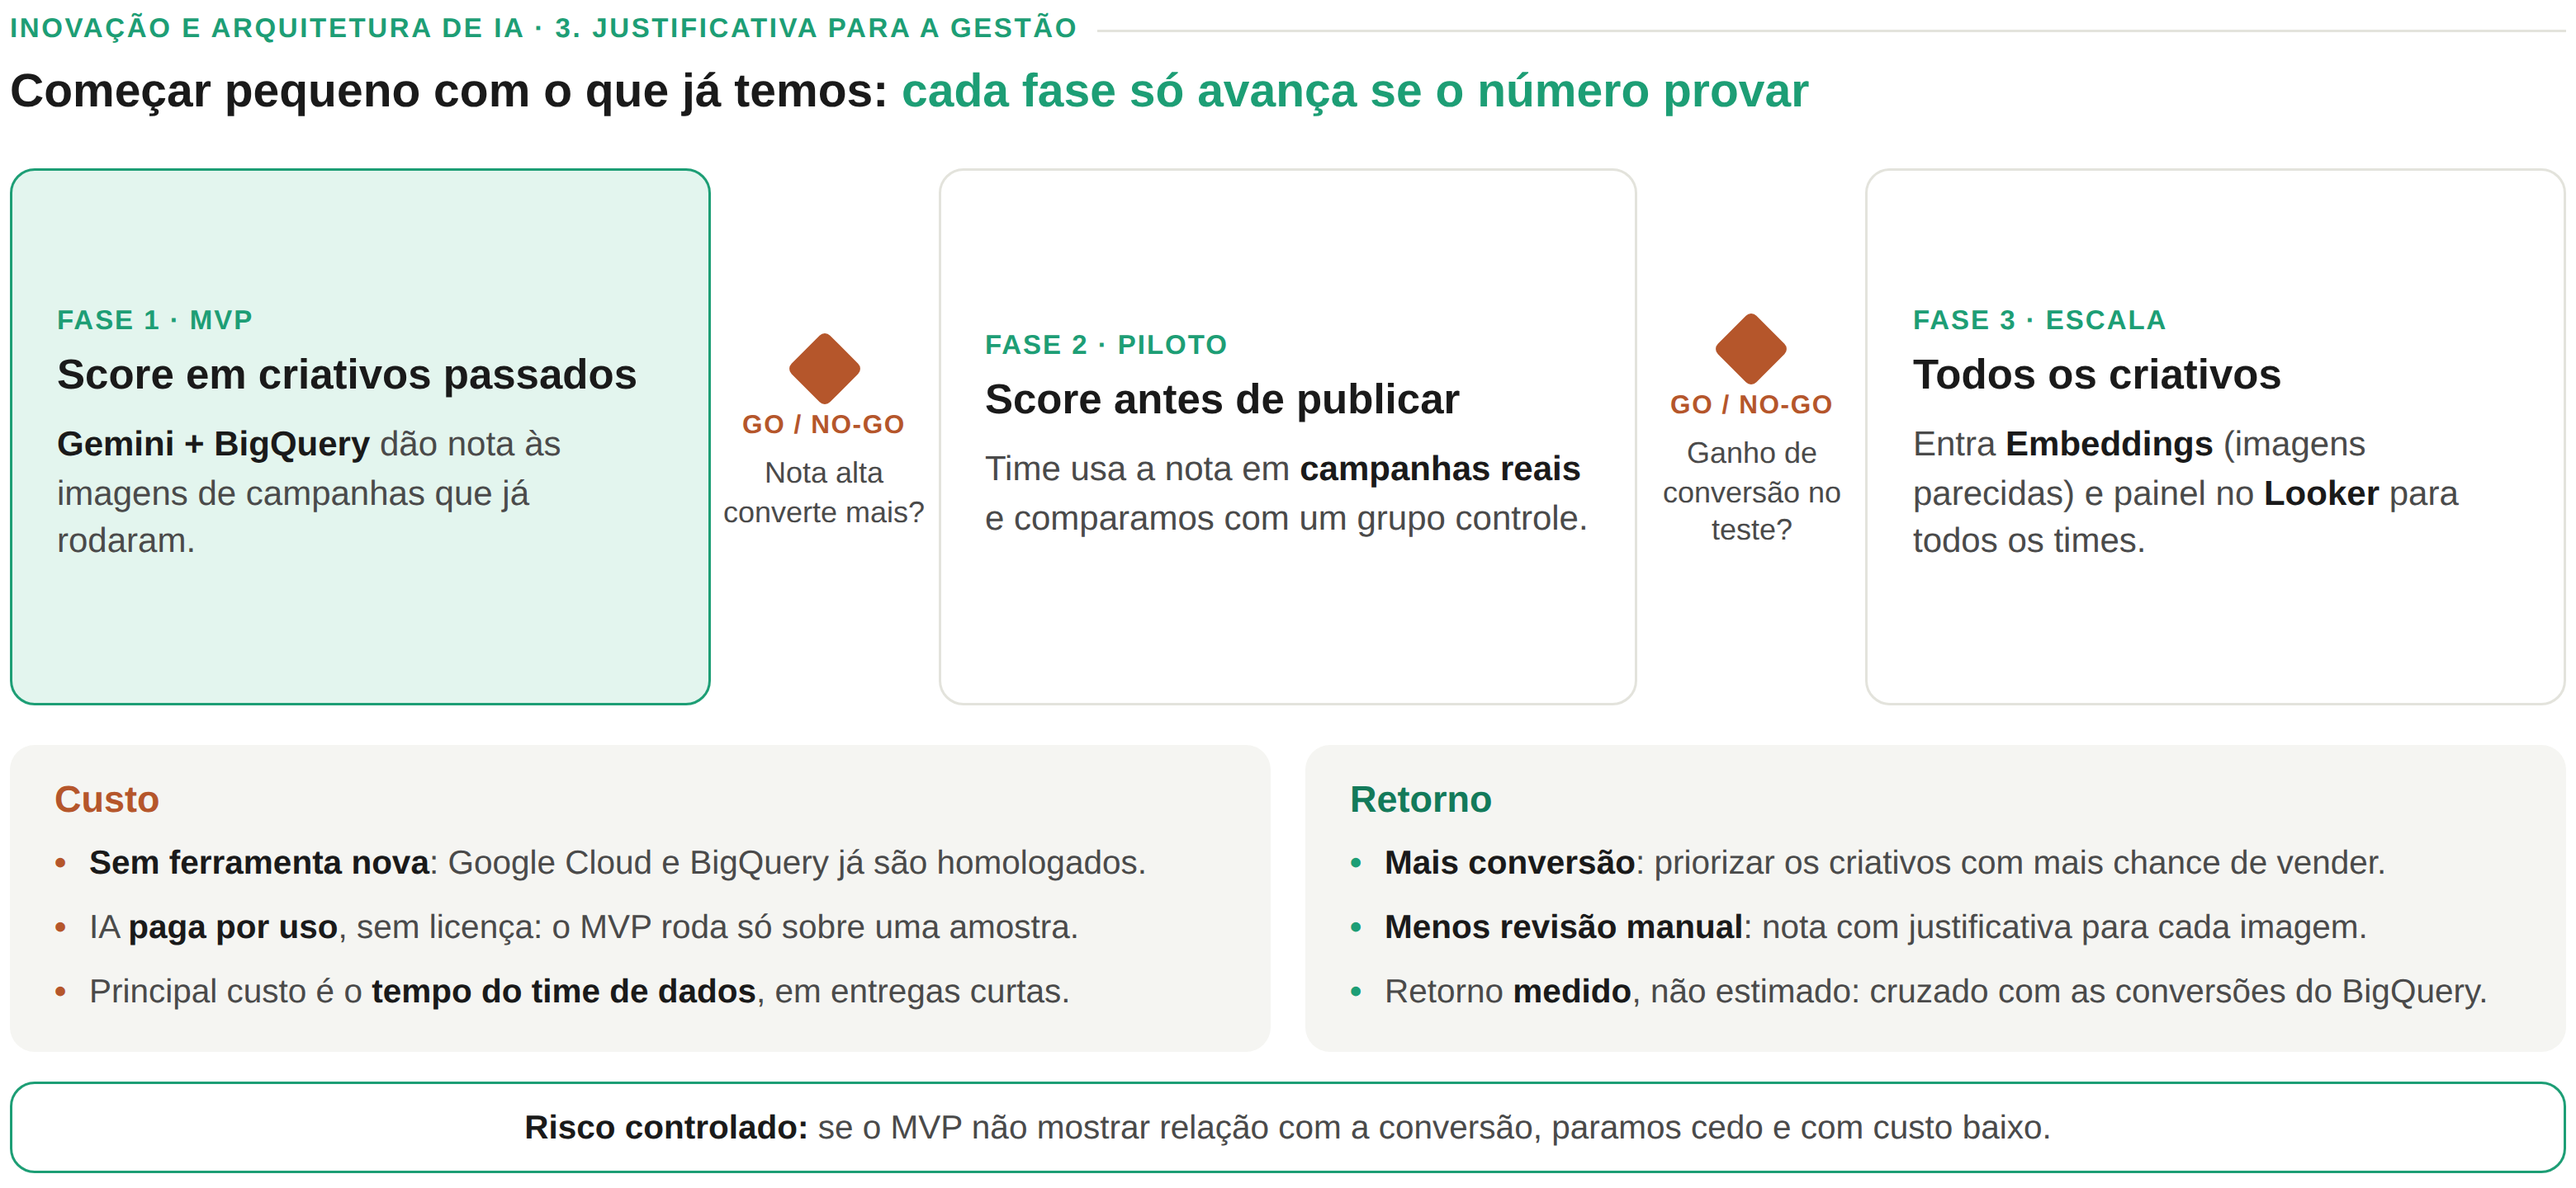
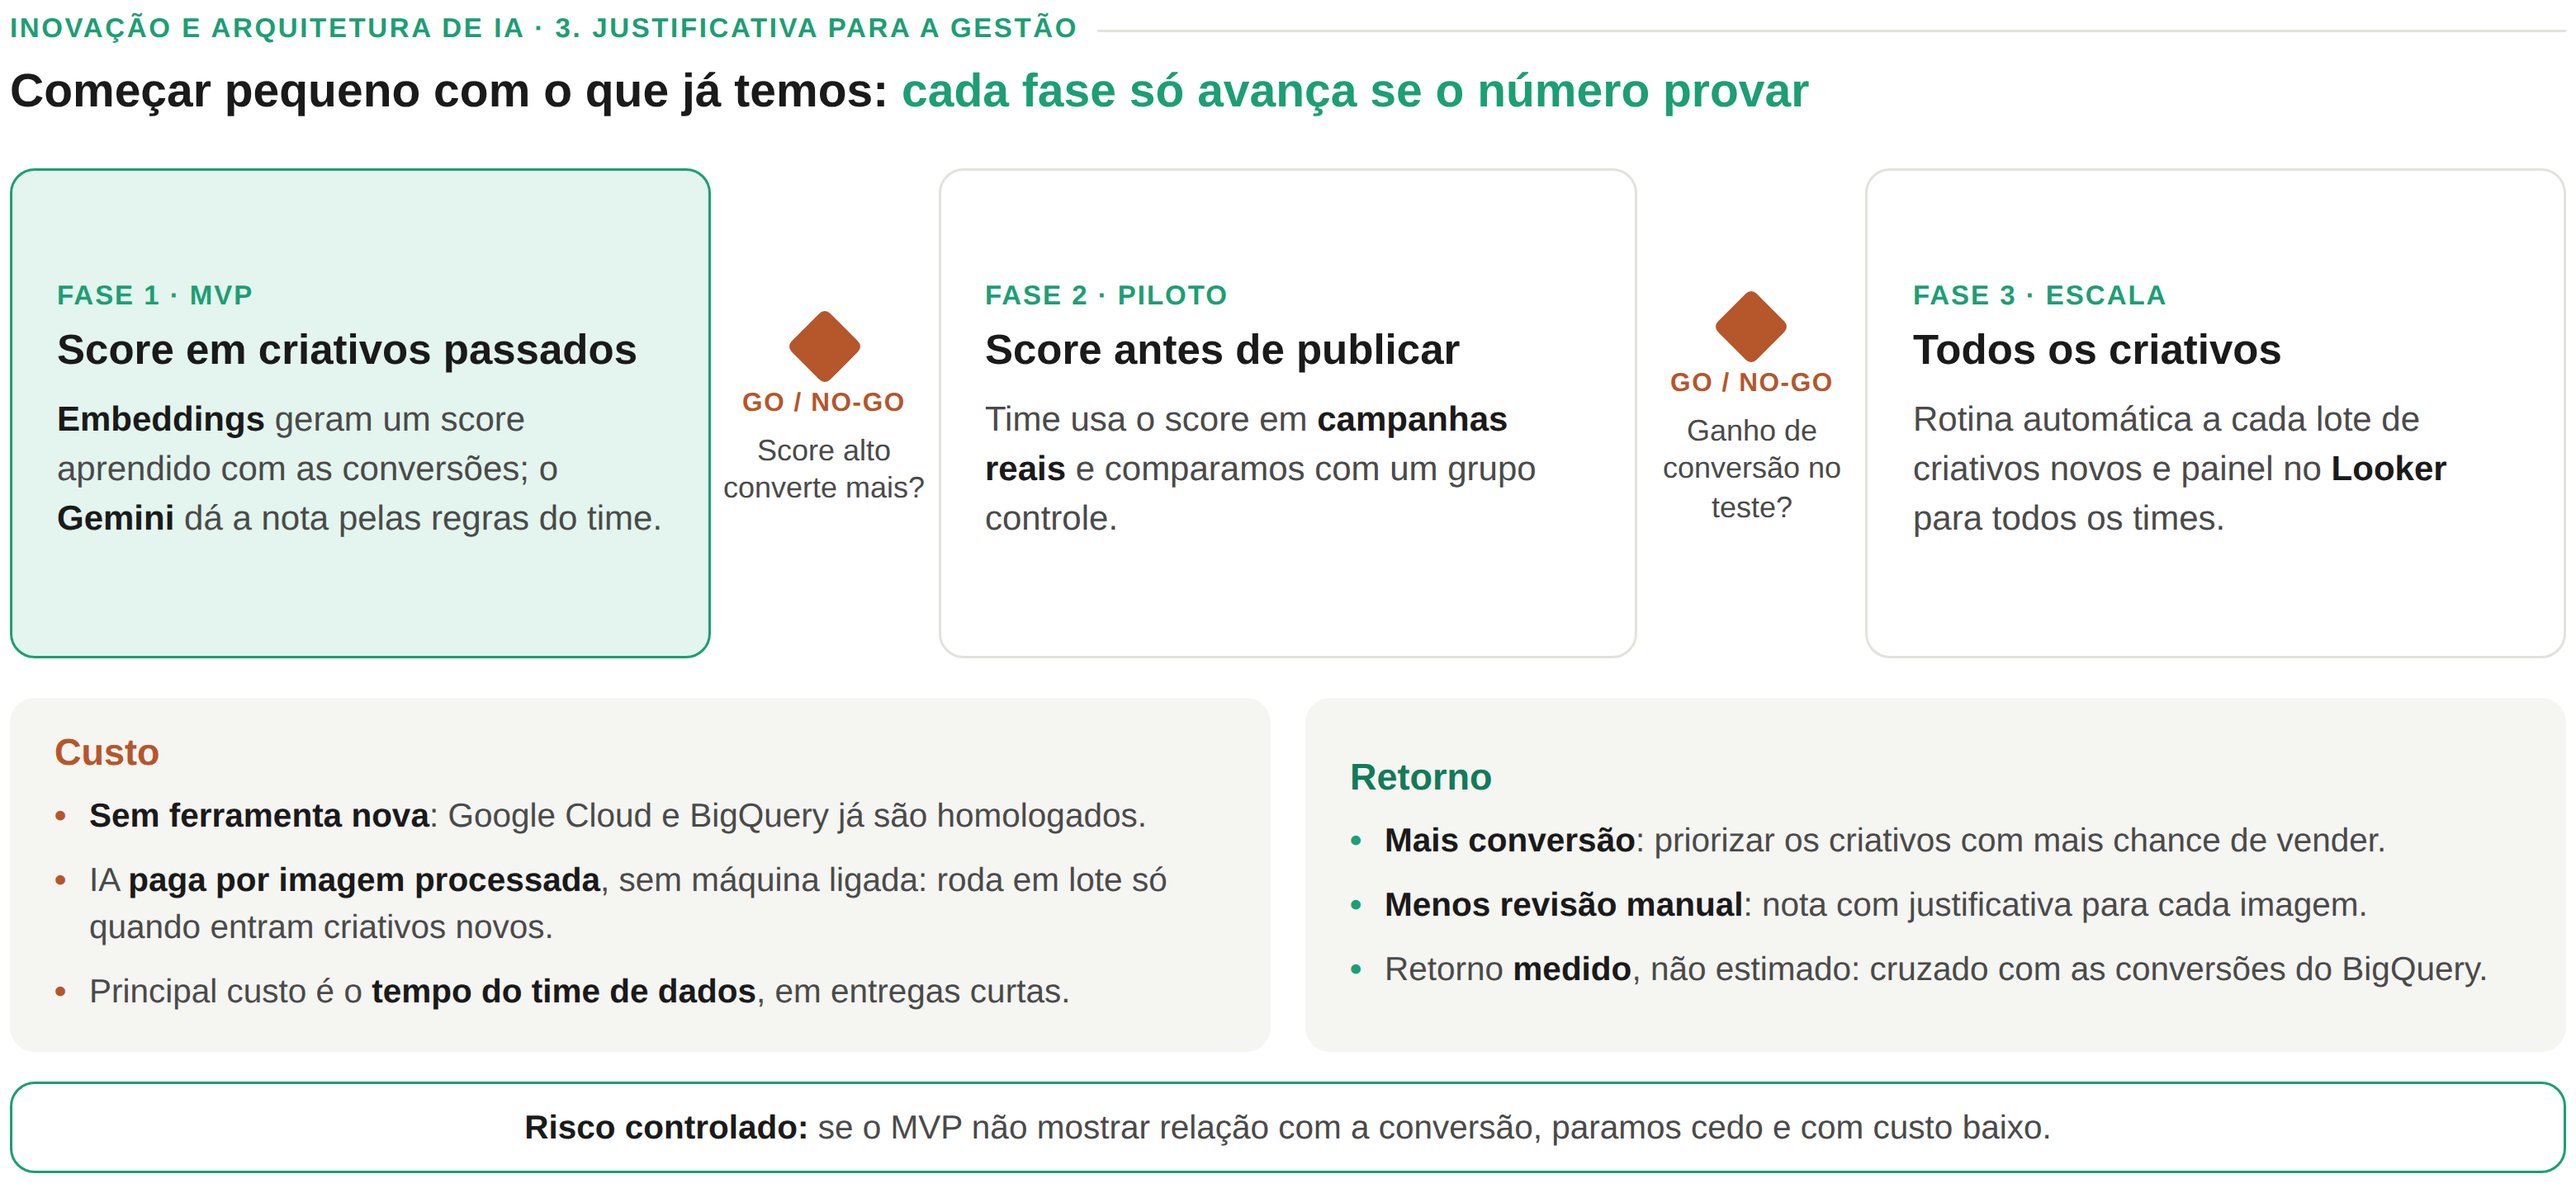
Widget 20: Embeddings no MVP e custo por imagem processada, sem máquina ligada
Claude-Session: https://claude.ai/code/session_01NUJZKTcM8cs9QBTcUeuacF

diff --git a/apresentacao/widgets/20_ia_mvp.html b/apresentacao/widgets/20_ia_mvp.html
@@ -46,18 +46,18 @@
   <h3>Começar pequeno com o que já temos: <span>cada fase só avança se o número provar</span></h3>
   <div class="fases">
     <div class="fase mvp"><div class="n">Fase 1 · MVP</div><h4>Score em criativos passados</h4>
-      <p><b>Gemini + BigQuery</b> dão nota às imagens de campanhas que já rodaram.</p></div>
-    <div class="gate"><div class="losango"></div><div class="t">Go / no-go</div><div class="c">Nota alta converte mais?</div></div>
+      <p><b>Embeddings</b> geram um score aprendido com as conversões; o <b>Gemini</b> dá a nota pelas regras do time.</p></div>
+    <div class="gate"><div class="losango"></div><div class="t">Go / no-go</div><div class="c">Score alto converte mais?</div></div>
     <div class="fase"><div class="n">Fase 2 · Piloto</div><h4>Score antes de publicar</h4>
-      <p>Time usa a nota em <b>campanhas reais</b> e comparamos com um grupo controle.</p></div>
+      <p>Time usa o score em <b>campanhas reais</b> e comparamos com um grupo controle.</p></div>
     <div class="gate"><div class="losango"></div><div class="t">Go / no-go</div><div class="c">Ganho de conversão no teste?</div></div>
     <div class="fase"><div class="n">Fase 3 · Escala</div><h4>Todos os criativos</h4>
-      <p>Entra <b>Embeddings</b> (imagens parecidas) e painel no <b>Looker</b> para todos os times.</p></div>
+      <p>Rotina automática a cada lote de criativos novos e painel no <b>Looker</b> para todos os times.</p></div>
   </div>
   <div class="balanca">
     <div class="lado custo"><h4>Custo</h4><ul>
       <li><b>Sem ferramenta nova</b>: Google Cloud e BigQuery já são homologados.</li>
-      <li>IA <b>paga por uso</b>, sem licença: o MVP roda só sobre uma amostra.</li>
+      <li>IA <b>paga por imagem processada</b>, sem máquina ligada: roda em lote só quando entram criativos novos.</li>
       <li>Principal custo é o <b>tempo do time de dados</b>, em entregas curtas.</li>
     </ul></div>
     <div class="lado retorno"><h4>Retorno</h4><ul>
